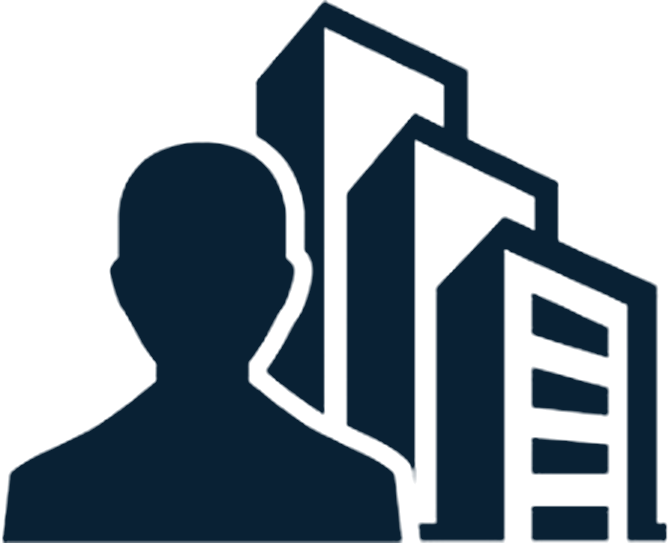
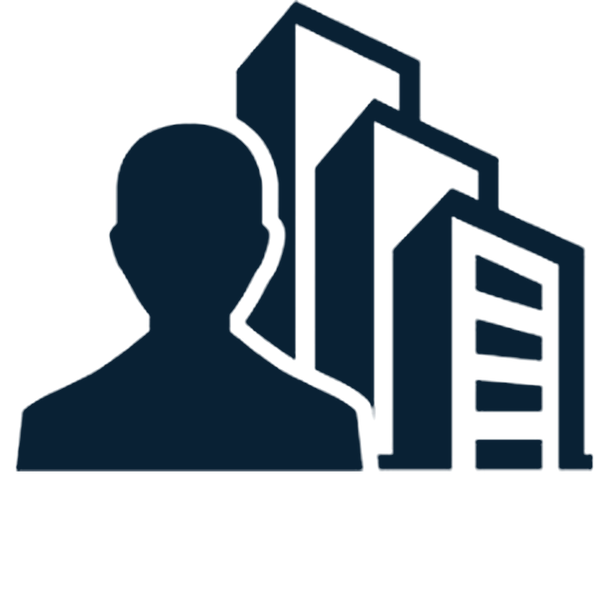
Add files via upload

diff --git a/partenaires.html b/partenaires.html
@@ -1,4 +1,3 @@
-
 <!DOCTYPE html>
 <html lang="fr">
 <head>
@@ -39,7 +38,7 @@
           <a class="bp-item" href="partenaire-tbc.html" title="Toulouse Basketball Club"><img src="bp-tbc.png" alt="Toulouse Basketball Club" class="plein"></a>
           <a class="bp-item" href="partenaire-badin.html" title="Badin Conseil"><img src="bp-badin.png" alt="Badin Conseil" class="serre"></a>
           <a class="bp-item" href="partenaire-rioux.html" title="Rioux Technology"><img src="bp-entreprise.png" alt="Rioux Technology"></a>
-          <a class="bp-item" href="partenaire-bclm.html" title="BCLM"><img src="bp-bclm.png" alt="BCLM" class="serre"></a>
+          <a class="bp-item" href="partenaire-bclm.html" title="BCLM"><img src="bp-bclm.png" alt="BCLM" class="moyen"></a>
         </div>
       </div>
     </div>

diff --git a/index.html b/index.html
@@ -38,7 +38,7 @@
           <a class="bp-item" href="partenaire-tbc.html" title="Toulouse Basketball Club"><img src="bp-tbc.png" alt="Toulouse Basketball Club" class="plein"></a>
           <a class="bp-item" href="partenaire-badin.html" title="Badin Conseil"><img src="bp-badin.png" alt="Badin Conseil" class="serre"></a>
           <a class="bp-item" href="partenaire-rioux.html" title="Rioux Technology"><img src="bp-entreprise.png" alt="Rioux Technology"></a>
-          <a class="bp-item" href="partenaire-bclm.html" title="BCLM"><img src="bp-bclm.png" alt="BCLM" class="serre"></a>
+          <a class="bp-item" href="partenaire-bclm.html" title="BCLM"><img src="bp-bclm.png" alt="BCLM" class="moyen"></a>
         </div>
       </div>
     </div>

diff --git a/maevasoa.html b/maevasoa.html
@@ -38,7 +38,7 @@
           <a class="bp-item" href="partenaire-tbc.html" title="Toulouse Basketball Club"><img src="bp-tbc.png" alt="Toulouse Basketball Club" class="plein"></a>
           <a class="bp-item" href="partenaire-badin.html" title="Badin Conseil"><img src="bp-badin.png" alt="Badin Conseil" class="serre"></a>
           <a class="bp-item" href="partenaire-rioux.html" title="Rioux Technology"><img src="bp-entreprise.png" alt="Rioux Technology"></a>
-          <a class="bp-item" href="partenaire-bclm.html" title="BCLM"><img src="bp-bclm.png" alt="BCLM" class="serre"></a>
+          <a class="bp-item" href="partenaire-bclm.html" title="BCLM"><img src="bp-bclm.png" alt="BCLM" class="moyen"></a>
         </div>
       </div>
     </div>

diff --git a/merci.html b/merci.html
@@ -39,7 +39,7 @@
           <a class="bp-item" href="partenaire-tbc.html" title="Toulouse Basketball Club"><img src="bp-tbc.png" alt="Toulouse Basketball Club" class="plein"></a>
           <a class="bp-item" href="partenaire-badin.html" title="Badin Conseil"><img src="bp-badin.png" alt="Badin Conseil" class="serre"></a>
           <a class="bp-item" href="partenaire-rioux.html" title="Rioux Technology"><img src="bp-entreprise.png" alt="Rioux Technology"></a>
-          <a class="bp-item" href="partenaire-bclm.html" title="BCLM"><img src="bp-bclm.png" alt="BCLM" class="serre"></a>
+          <a class="bp-item" href="partenaire-bclm.html" title="BCLM"><img src="bp-bclm.png" alt="BCLM" class="moyen"></a>
         </div>
       </div>
     </div>

diff --git a/nos-actions.html b/nos-actions.html
@@ -38,7 +38,7 @@
           <a class="bp-item" href="partenaire-tbc.html" title="Toulouse Basketball Club"><img src="bp-tbc.png" alt="Toulouse Basketball Club" class="plein"></a>
           <a class="bp-item" href="partenaire-badin.html" title="Badin Conseil"><img src="bp-badin.png" alt="Badin Conseil" class="serre"></a>
           <a class="bp-item" href="partenaire-rioux.html" title="Rioux Technology"><img src="bp-entreprise.png" alt="Rioux Technology"></a>
-          <a class="bp-item" href="partenaire-bclm.html" title="BCLM"><img src="bp-bclm.png" alt="BCLM" class="serre"></a>
+          <a class="bp-item" href="partenaire-bclm.html" title="BCLM"><img src="bp-bclm.png" alt="BCLM" class="moyen"></a>
         </div>
       </div>
     </div>

diff --git a/nous-soutenir.html b/nous-soutenir.html
@@ -38,7 +38,7 @@
           <a class="bp-item" href="partenaire-tbc.html" title="Toulouse Basketball Club"><img src="bp-tbc.png" alt="Toulouse Basketball Club" class="plein"></a>
           <a class="bp-item" href="partenaire-badin.html" title="Badin Conseil"><img src="bp-badin.png" alt="Badin Conseil" class="serre"></a>
           <a class="bp-item" href="partenaire-rioux.html" title="Rioux Technology"><img src="bp-entreprise.png" alt="Rioux Technology"></a>
-          <a class="bp-item" href="partenaire-bclm.html" title="BCLM"><img src="bp-bclm.png" alt="BCLM" class="serre"></a>
+          <a class="bp-item" href="partenaire-bclm.html" title="BCLM"><img src="bp-bclm.png" alt="BCLM" class="moyen"></a>
         </div>
       </div>
     </div>

diff --git a/partenaire-badin.html b/partenaire-badin.html
@@ -38,7 +38,7 @@
           <a class="bp-item" href="partenaire-tbc.html" title="Toulouse Basketball Club"><img src="bp-tbc.png" alt="Toulouse Basketball Club" class="plein"></a>
           <a class="bp-item" href="partenaire-badin.html" title="Badin Conseil"><img src="bp-badin.png" alt="Badin Conseil" class="serre"></a>
           <a class="bp-item" href="partenaire-rioux.html" title="Rioux Technology"><img src="bp-entreprise.png" alt="Rioux Technology"></a>
-          <a class="bp-item" href="partenaire-bclm.html" title="BCLM"><img src="bp-bclm.png" alt="BCLM" class="serre"></a>
+          <a class="bp-item" href="partenaire-bclm.html" title="BCLM"><img src="bp-bclm.png" alt="BCLM" class="moyen"></a>
         </div>
       </div>
     </div>

diff --git a/partenaire-bclm.html b/partenaire-bclm.html
@@ -38,7 +38,7 @@
           <a class="bp-item" href="partenaire-tbc.html" title="Toulouse Basketball Club"><img src="bp-tbc.png" alt="Toulouse Basketball Club" class="plein"></a>
           <a class="bp-item" href="partenaire-badin.html" title="Badin Conseil"><img src="bp-badin.png" alt="Badin Conseil" class="serre"></a>
           <a class="bp-item" href="partenaire-rioux.html" title="Rioux Technology"><img src="bp-entreprise.png" alt="Rioux Technology"></a>
-          <a class="bp-item" href="partenaire-bclm.html" title="BCLM"><img src="bp-bclm.png" alt="BCLM" class="serre"></a>
+          <a class="bp-item" href="partenaire-bclm.html" title="BCLM"><img src="bp-bclm.png" alt="BCLM" class="moyen"></a>
         </div>
       </div>
     </div>

diff --git a/partenaire-rioux.html b/partenaire-rioux.html
@@ -38,7 +38,7 @@
           <a class="bp-item" href="partenaire-tbc.html" title="Toulouse Basketball Club"><img src="bp-tbc.png" alt="Toulouse Basketball Club" class="plein"></a>
           <a class="bp-item" href="partenaire-badin.html" title="Badin Conseil"><img src="bp-badin.png" alt="Badin Conseil" class="serre"></a>
           <a class="bp-item" href="partenaire-rioux.html" title="Rioux Technology"><img src="bp-entreprise.png" alt="Rioux Technology"></a>
-          <a class="bp-item" href="partenaire-bclm.html" title="BCLM"><img src="bp-bclm.png" alt="BCLM" class="serre"></a>
+          <a class="bp-item" href="partenaire-bclm.html" title="BCLM"><img src="bp-bclm.png" alt="BCLM" class="moyen"></a>
         </div>
       </div>
     </div>

diff --git a/partenaire-tbc.html b/partenaire-tbc.html
@@ -38,7 +38,7 @@
           <a class="bp-item" href="partenaire-tbc.html" title="Toulouse Basketball Club"><img src="bp-tbc.png" alt="Toulouse Basketball Club" class="plein"></a>
           <a class="bp-item" href="partenaire-badin.html" title="Badin Conseil"><img src="bp-badin.png" alt="Badin Conseil" class="serre"></a>
           <a class="bp-item" href="partenaire-rioux.html" title="Rioux Technology"><img src="bp-entreprise.png" alt="Rioux Technology"></a>
-          <a class="bp-item" href="partenaire-bclm.html" title="BCLM"><img src="bp-bclm.png" alt="BCLM" class="serre"></a>
+          <a class="bp-item" href="partenaire-bclm.html" title="BCLM"><img src="bp-bclm.png" alt="BCLM" class="moyen"></a>
         </div>
       </div>
     </div>

diff --git a/projet-elite.html b/projet-elite.html
@@ -38,7 +38,7 @@
           <a class="bp-item" href="partenaire-tbc.html" title="Toulouse Basketball Club"><img src="bp-tbc.png" alt="Toulouse Basketball Club" class="plein"></a>
           <a class="bp-item" href="partenaire-badin.html" title="Badin Conseil"><img src="bp-badin.png" alt="Badin Conseil" class="serre"></a>
           <a class="bp-item" href="partenaire-rioux.html" title="Rioux Technology"><img src="bp-entreprise.png" alt="Rioux Technology"></a>
-          <a class="bp-item" href="partenaire-bclm.html" title="BCLM"><img src="bp-bclm.png" alt="BCLM" class="serre"></a>
+          <a class="bp-item" href="partenaire-bclm.html" title="BCLM"><img src="bp-bclm.png" alt="BCLM" class="moyen"></a>
         </div>
       </div>
     </div>

diff --git a/rejoindre.html b/rejoindre.html
@@ -38,7 +38,7 @@
           <a class="bp-item" href="partenaire-tbc.html" title="Toulouse Basketball Club"><img src="bp-tbc.png" alt="Toulouse Basketball Club" class="plein"></a>
           <a class="bp-item" href="partenaire-badin.html" title="Badin Conseil"><img src="bp-badin.png" alt="Badin Conseil" class="serre"></a>
           <a class="bp-item" href="partenaire-rioux.html" title="Rioux Technology"><img src="bp-entreprise.png" alt="Rioux Technology"></a>
-          <a class="bp-item" href="partenaire-bclm.html" title="BCLM"><img src="bp-bclm.png" alt="BCLM" class="serre"></a>
+          <a class="bp-item" href="partenaire-bclm.html" title="BCLM"><img src="bp-bclm.png" alt="BCLM" class="moyen"></a>
         </div>
       </div>
     </div>
